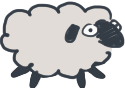
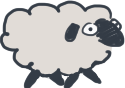
add: ouch graphics

diff --git a/src/pet.py b/src/pet.py
@@ -22,6 +22,13 @@ class Pet(pygame.sprite.Sprite):
         self.walk_left = [
             pygame.transform.flip(img, True, False) for img in self.walk_right
         ]
+        self.run_right = [
+            pygame.transform.scale(pygame.image.load("graphics/sheep/run_1.png").convert_alpha(), scale),
+            pygame.transform.scale(pygame.image.load("graphics/sheep/run_2.png").convert_alpha(), scale)
+        ]
+        self.run_left = [
+            pygame.transform.flip(img, True, False) for img in self.run_right
+        ]
         self.drag_right = [
             pygame.transform.scale(pygame.image.load("graphics/sheep/drag_1.png").convert_alpha(), scale),
             pygame.transform.scale(pygame.image.load("graphics/sheep/drag_2.png").convert_alpha(), scale)
@@ -82,7 +89,13 @@ class Pet(pygame.sprite.Sprite):
         self.pee_left = [
             pygame.transform.flip(img, True, False) for img in self.pee_right
         ]
-
+        self.ouch_right = [
+            pygame.transform.scale(pygame.image.load("graphics/sheep/ouch_1.png").convert_alpha(), scale),
+            pygame.transform.scale(pygame.image.load("graphics/sheep/ouch_2.png").convert_alpha(), scale)
+        ]
+        self.ouch_left = [
+            pygame.transform.flip(img, True, False) for img in self.ouch_right
+        ]
         # frame 
         self.frame = 0
         self.frame_timer = 0
@@ -96,7 +109,7 @@ class Pet(pygame.sprite.Sprite):
         self.walk_speed = 1 * self.direction
 
         # run
-        self.run_chance = 0.1
+        self.run_chance = 0.2
         self.acc = 0.1 * self.direction
         self.max_speed = 10
         self.knockback_x = 3 * self.direction
@@ -236,7 +249,7 @@ class Pet(pygame.sprite.Sprite):
                     self.start_crash(1)
                 return 
 
-        self.animate("walk", 5)
+        self.animate("run", 5)
 
     def walk(self):
         # movement 
@@ -438,7 +451,7 @@ class Pet(pygame.sprite.Sprite):
 
     def turn(self):
         self.reset_move_attributes()
-        self.animate("turn", 15)
+        self.animate("turn", 5)
 
         if self.frame == len(self.turn_right) - 1:
             self.direction = self.direction
